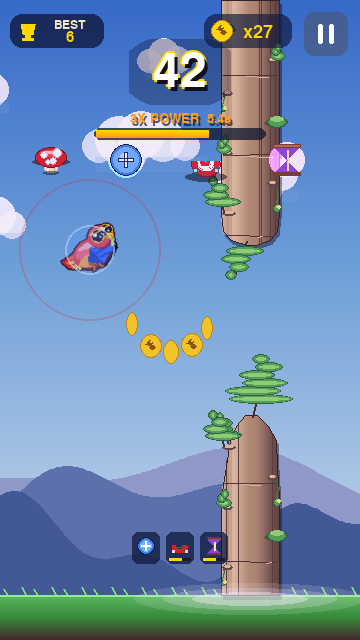
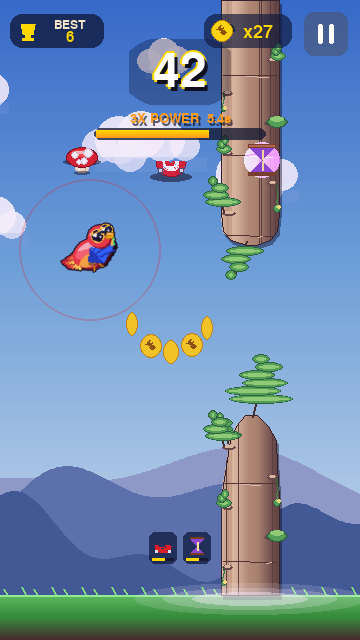
remove shield power-up — it was too strong
Dropped the shield power-up entirely. Free pillar hits compressed the
entire skill ceiling of the run, so the remaining three variants
(triple coins, magnet, slow-time) cover the buff space without turning
deaths into freebies. Spawn weights redistributed (triple 60, slowmo 25,
magnet 15).

Removed: shield state on World, shield collision absorption, shield
pickup + break SFX, shield sprite, shield HUD badge, shield bubble
overlay on the bird.

https://claude.ai/code/session_01UMZLoyYigc3Xe6rqLJP1K1

diff --git a/game/world.py b/game/world.py
@@ -55,7 +55,6 @@ class World:
         self.triple_timer = 0.0
         self.magnet_timer = 0.0
         self.slowmo_timer = 0.0
-        self.shield_armed = False
         self.mushroom_cooldown = 0.0
 
         # Coin-rush counter: increments each spawn; every Nth pipe is a rush.
@@ -66,7 +65,7 @@ class World:
         self.pillars_passed = 0
         self.time_alive = 0.0
         self.near_misses = 0
-        self.powerups_picked = {"triple": 0, "shield": 0, "magnet": 0, "slowmo": 0}
+        self.powerups_picked = {"triple": 0, "magnet": 0, "slowmo": 0}
         # Transient flag so near-miss detection fires once per pillar.
         self._near_miss_flags: dict[int, bool] = {}
 
@@ -395,36 +394,8 @@ class World:
             return
         for p in self.pipes:
             if p.collides_circle(bx, by, BIRD_R - 2):
-                if self.shield_armed:
-                    self._break_shield(p)
-                    return
                 self._die()
                 return
-
-    def _break_shield(self, pipe):
-        """Consume the shield: spawn a blue shimmer + a safety nudge."""
-        self.shield_armed = False
-        self.shake_mag = max(self.shake_mag, 4.0)
-        self.shake_t = max(self.shake_t, 0.25)
-        # Nudge the bird upward out of the pillar so it isn't still overlapping.
-        self.bird.vy = -240
-        audio.play_shield_break()
-        bx, by = self.bird.x, self.bird.y
-        for _ in range(24):
-            ang = random.uniform(0, math.tau)
-            spd = random.uniform(140, 320)
-            col = random.choice(((120, 200, 255), (80, 160, 255), WHITE))
-            self.particles.append(Particle(
-                bx, by,
-                math.cos(ang) * spd, math.sin(ang) * spd,
-                random.uniform(0.4, 0.9),
-                random.randint(2, 4),
-                col, gravity=80,
-            ))
-        self.float_texts.append(FloatText(
-            "SHIELD!", bx, by - 24, (120, 200, 255),
-            size=22, life=1.1, vy=-40,
-        ))
 
     def _die(self):
         if self.game_over:
@@ -541,8 +512,6 @@ class World:
         self.powerups_picked[m.kind] = self.powerups_picked.get(m.kind, 0) + 1
         if m.kind == "triple":
             self._activate_triple(m)
-        elif m.kind == "shield":
-            self._activate_shield(m)
         elif m.kind == "magnet":
             self._activate_magnet(m)
         elif m.kind == "slowmo":
@@ -569,16 +538,6 @@ class World:
         self._pickup_burst(m, (UI_ORANGE, UI_GOLD, BIRD_RED, UI_CREAM))
         self.float_texts.append(FloatText(
             "3X POWER!", m.x, m.y - 22, UI_ORANGE, size=26, life=1.4, vy=-30,
-        ))
-
-    def _activate_shield(self, m):
-        self.shield_armed = True
-        self.shake_mag = max(self.shake_mag, 2.5)
-        self.shake_t = max(self.shake_t, 0.25)
-        audio.play_shield()
-        self._pickup_burst(m, ((120, 200, 255), (80, 160, 255), WHITE, (180, 225, 255)))
-        self.float_texts.append(FloatText(
-            "SHIELD UP!", m.x, m.y - 22, (120, 200, 255), size=24, life=1.3, vy=-30,
         ))
 
     def _activate_magnet(self, m):

diff --git a/game/entities.py b/game/entities.py
@@ -306,7 +306,6 @@ class Coin:
 class PowerUp:
     """A collectible buff. `kind` selects visuals and pickup effect:
        triple  — red mushroom, 3x coin value for TRIPLE_DURATION
-       shield  — blue badge, absorbs next fatal collision
        magnet  — red horseshoe, pulls coins in for MAGNET_DURATION
        slowmo  — purple hourglass, 0.5x world scroll for SLOWMO_DURATION
     """
@@ -323,8 +322,6 @@ class PowerUp:
     def draw(self, surf):
         if self.kind == "triple":
             self._draw_mushroom(surf)
-        elif self.kind == "shield":
-            self._draw_shield(surf)
         elif self.kind == "magnet":
             self._draw_magnet(surf)
         elif self.kind == "slowmo":
@@ -369,28 +366,6 @@ class PowerUp:
                            (cx - 3, cy + 2, 2)):
             pygame.draw.circle(surf, (220, 190, 200), (sx, sy), sr + 1)
             pygame.draw.circle(surf, MUSH_SPOT,       (sx, sy), sr)
-
-    def _draw_shield(self, surf):
-        cx = int(self.x)
-        cy = int(self.y)
-        # Soft blue aura behind
-        aura = pygame.Surface((MUSHROOM_R * 3, MUSHROOM_R * 3), pygame.SRCALPHA)
-        pygame.draw.circle(aura, (80, 160, 255, 70),
-                           (aura.get_width() // 2, aura.get_height() // 2),
-                           MUSHROOM_R + 4)
-        surf.blit(aura, (cx - aura.get_width() // 2, cy - aura.get_height() // 2),
-                  special_flags=pygame.BLEND_ADD)
-        # Disc with metallic frame
-        pygame.draw.circle(surf, (10, 30, 80), (cx, cy), MUSHROOM_R + 2)
-        pygame.draw.circle(surf, (60, 130, 230), (cx, cy), MUSHROOM_R + 1)
-        pygame.draw.circle(surf, (110, 180, 255), (cx, cy), MUSHROOM_R - 1)
-        pygame.draw.circle(surf, (180, 225, 255), (cx - 3, cy - 4), 3)
-        # White cross
-        pygame.draw.rect(surf, WHITE, (cx - 2, cy - 8, 4, 16), border_radius=1)
-        pygame.draw.rect(surf, WHITE, (cx - 8, cy - 2, 16, 4), border_radius=1)
-        # Outline the cross so it pops
-        pygame.draw.rect(surf, (20, 40, 90), (cx - 2, cy - 8, 4, 16), 1)
-        pygame.draw.rect(surf, (20, 40, 90), (cx - 8, cy - 2, 16, 4), 1)
 
     def _draw_magnet(self, surf):
         cx = int(self.x)

diff --git a/game/audio.py b/game/audio.py
@@ -131,19 +131,6 @@ def init() -> None:
                 (0.08, 659, 659, "triangle", 0.42),
                 (0.14, 784, 988, "triangle", 0.50),
             ]))
-        # Shield pickup: rising chord
-        _sounds["shield"] = pygame.mixer.Sound(
-            buffer=_synth_sequence([
-                (0.07, 440, 440, "sine", 0.35),
-                (0.07, 587, 587, "sine", 0.38),
-                (0.14, 784, 880, "sine", 0.42),
-            ]))
-        # Shield break: two fast crunchy descending chirps
-        _sounds["shield_break"] = pygame.mixer.Sound(
-            buffer=_synth_sequence([
-                (0.08, 900, 420, "square", 0.38),
-                (0.10, 600, 220, "square", 0.42),
-            ]))
         # Magnet: low→high swept sine, slightly buzzier tail
         _sounds["magnet"] = pygame.mixer.Sound(
             buffer=_synth_sequence([
@@ -195,8 +182,6 @@ def play_coin() -> None:          _play("coin", 0.75)
 def play_coin_combo() -> None:    _play("coin_combo", 0.80)
 def play_coin_triple() -> None:   _play("coin_triple", 0.85)
 def play_mushroom() -> None:      _play("mushroom", 0.85)
-def play_shield() -> None:        _play("shield", 0.80)
-def play_shield_break() -> None:  _play("shield_break", 0.80)
 def play_magnet() -> None:        _play("magnet", 0.75)
 def play_slowmo() -> None:        _play("slowmo", 0.75)
 def play_thunder() -> None:       _play("thunder", 0.85)

diff --git a/game/hud.py b/game/hud.py
@@ -60,12 +60,6 @@ def _draw_buff_icon(surf, rect, kind):
                             (cx - 8, cy - 5, 16, 8))
         pygame.draw.circle(surf, WHITE, (cx - 3, cy - 3), 1)
         pygame.draw.circle(surf, WHITE, (cx + 3, cy - 2), 1)
-    elif kind == "shield":
-        pygame.draw.circle(surf, (10, 30, 80), (cx, cy), 9)
-        pygame.draw.circle(surf, (60, 130, 230), (cx, cy), 8)
-        pygame.draw.circle(surf, (110, 180, 255), (cx, cy), 6)
-        pygame.draw.rect(surf, WHITE, (cx - 1, cy - 5, 2, 10))
-        pygame.draw.rect(surf, WHITE, (cx - 5, cy - 1, 10, 2))
     elif kind == "magnet":
         # Horseshoe U
         pygame.draw.arc(surf, (220, 30, 40),
@@ -249,11 +243,9 @@ class HUD:
                                  border_radius=8, width=2)
                 surf.blit(ring, (bx - 5, by - 3))
 
-        # Active-buff strip (shield + magnet + slowmo badges). Triple has its
-        # own bigger timer bar above, so we don't duplicate it here.
+        # Active-buff strip (magnet + slowmo badges). Triple has its own
+        # bigger timer bar above, so we don't duplicate it here.
         active = []
-        if world.shield_armed:
-            active.append(("shield", None, None))
         if world.magnet_timer > 0:
             active.append(("magnet", world.magnet_timer, MAGNET_DURATION))
         if world.slowmo_timer > 0:

diff --git a/tools/snapshot.py b/tools/snapshot.py
@@ -339,15 +339,13 @@ def snap_powerups():
     for t in (0.0, 0.25, 0.5, 0.75, 1.0):
         ang = -math.pi * 0.35 + math.pi * 0.7 * t
         app.world.coins.append(Coin(180 + math.sin(ang) * 40, 320 + math.cos(ang) * 44 - 10))
-    # Lay out all four variants across the screen for the gallery shot.
+    # Lay out all three variants across the screen for the gallery shot.
     app.world.powerups.extend((
-        PowerUp(60, 160, kind="triple"),
-        PowerUp(135, 160, kind="shield"),
-        PowerUp(215, 160, kind="magnet"),
-        PowerUp(295, 160, kind="slowmo"),
+        PowerUp(90, 160, kind="triple"),
+        PowerUp(180, 160, kind="magnet"),
+        PowerUp(270, 160, kind="slowmo"),
     ))
     # Activate buffs so the HUD strip and in-world overlays are visible.
-    app.world.shield_armed = True
     app.world.magnet_timer = 3.2
     app.world.slowmo_timer = 2.0
     app.world.triple_timer = 5.5
@@ -379,7 +377,7 @@ def snap_stats():
     app.world.pillars_passed = 28
     app.world.near_misses = 9
     app.world.time_alive = 82.4
-    app.world.powerups_picked = {"triple": 2, "shield": 1, "magnet": 0, "slowmo": 1}
+    app.world.powerups_picked = {"triple": 2, "magnet": 1, "slowmo": 1}
     app.prev_best_at_death = 50
     app.world._die()
     app._on_death()

diff --git a/game/scenes.py b/game/scenes.py
@@ -263,23 +263,6 @@ class App:
 
         self.world.bird.draw(self.screen, sx, sy)
 
-        # Shield bubble around the bird when armed
-        if self.world.shield_armed:
-            import math as _math
-            pulse = 0.5 + 0.5 * _math.sin(self._cloud_phase * 4.0)
-            bubble_r = 24 + int(pulse * 2)
-            bubble = pygame.Surface((bubble_r * 2 + 4, bubble_r * 2 + 4),
-                                    pygame.SRCALPHA)
-            # Outer glow
-            pygame.draw.circle(bubble, (80, 160, 255, 60),
-                               (bubble_r + 2, bubble_r + 2), bubble_r)
-            # Inner ring
-            pygame.draw.circle(bubble, (180, 225, 255, 160),
-                               (bubble_r + 2, bubble_r + 2), bubble_r, 2)
-            self.screen.blit(bubble,
-                             (self.world.bird.x + sx - bubble_r - 2,
-                              self.world.bird.y + sy - bubble_r - 2))
-
         for p in self.world.particles:
             p.draw(self.screen)
 

diff --git a/game/config.py b/game/config.py
@@ -37,13 +37,12 @@ SLOWMO_DURATION    = 3.0
 SLOWMO_SCALE       = 0.5
 COMBO_WINDOW       = 1.6
 
-# Spawn weights for the four power-up kinds. Must sum to anything — they're
+# Spawn weights for the three power-up kinds. Must sum to anything — they're
 # normalized at pick time.
 POWERUP_WEIGHTS    = (
-    ("triple", 50),
-    ("shield", 22),
-    ("slowmo", 18),
-    ("magnet", 10),
+    ("triple", 60),
+    ("slowmo", 25),
+    ("magnet", 15),
 )
 
 SAVE_FILE = "skybit_save.json"
